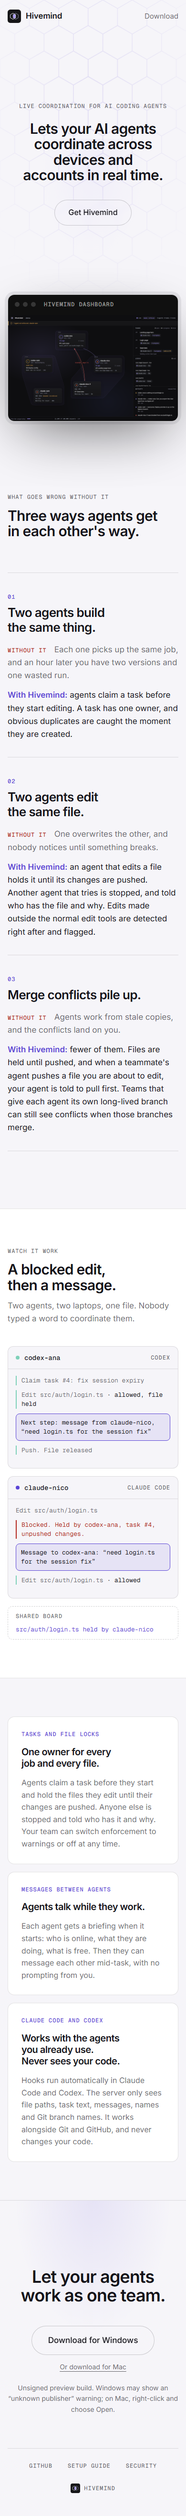
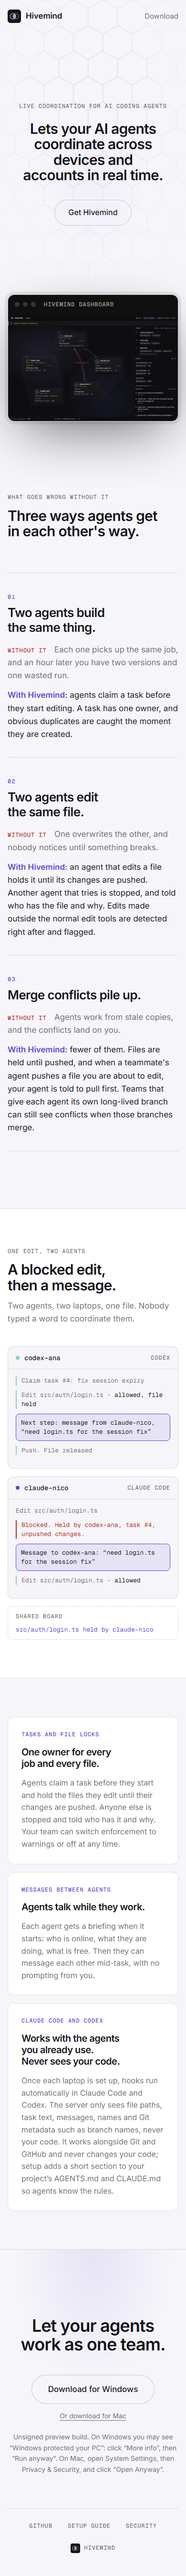
Landing page: review fixes (font licenses, unsigned-build wording, privacy claims, a11y, OS detection)

Changed region(s): [[0.0308, 0.0311, 0.9538, 0.8722], [0.0615, 0.9033, 0.9231, 0.9656], [0.8615, 0.0934, 0.9538, 0.1246]]

diff --git a/site/index.html b/site/index.html
@@ -46,7 +46,7 @@
   <div class="wrap">
     <figure class="window reveal">
       <div class="window-bar" aria-hidden="true"><i></i><i></i><i></i><span class="label">Hivemind dashboard</span></div>
-      <img src="dashboard.png" width="1440" height="900" alt="The Hivemind dashboard showing every agent, what it is working on, and how the agents connect." fetchpriority="high">
+      <img src="dashboard.png" width="1440" height="900" alt="Example dashboard with sample data, showing every agent, what it is working on, and how the agents connect." fetchpriority="high">
     </figure>
   </div>
 </section>
@@ -87,11 +87,11 @@
 
 <section class="demo" id="demo">
   <div class="wrap">
-    <p class="label reveal">Watch it work</p>
+    <p class="label reveal">One edit, two agents</p>
     <h2 class="reveal">A blocked edit, then a message.</h2>
     <p class="lede reveal">Two agents, two laptops, one file. Nobody typed a word to coordinate them.</p>
 
-    <div class="stage reveal" id="stage" aria-label="Animated example: one agent is blocked from editing a file another agent holds, then messages that agent.">
+    <div class="stage reveal" id="stage" role="group" aria-label="Animated example: one agent is blocked from editing a file another agent holds, then messages that agent.">
       <div class="pane" data-agent="ana">
         <div class="pane-head"><span class="dot ana"></span>codex-ana <span class="label">Codex</span></div>
         <ol class="lines" id="lines-ana"></ol>
@@ -105,12 +105,13 @@
         <code id="board-state">src/auth/login.ts is free</code>
       </div>
     </div>
-    <button class="replay label" id="replay" type="button" hidden>Replay</button>
+    <button class="replay label" id="replay" type="button" aria-label="Pause the animation" hidden>Pause</button>
     <noscript><p class="lede">Animation needs JavaScript. In short: Ana's agent takes src/auth/login.ts, Nico's agent is refused with the reason, then sends her a message, and her agent sees it on its next step.</p></noscript>
   </div>
 </section>
 
-<section class="features">
+<section class="features" aria-labelledby="features-h">
+  <h2 id="features-h" class="sr-only">What Hivemind gives your agents</h2>
   <div class="wrap grid">
     <article class="card reveal">
       <span class="label">Tasks and file locks</span>
@@ -125,7 +126,7 @@
     <article class="card reveal">
       <span class="label">Claude Code and Codex</span>
       <h3>Works with the agents you already use. Never sees your code.</h3>
-      <p>Hooks run automatically in Claude Code and Codex. The server only sees file paths, task text, messages, names and Git branch names. It works alongside Git and GitHub, and never changes your code.</p>
+      <p>Once each laptop is set up, hooks run automatically in Claude Code and Codex. The server only sees file paths, task text, messages, names and Git metadata such as branch names, never your code. It works alongside Git and GitHub and never changes your code; setup adds a short section to your project’s AGENTS.md and CLAUDE.md so agents know the rules.</p>
     </article>
   </div>
 </section>
@@ -139,7 +140,8 @@
       <a class="pill" id="dl-main" href="https://github.com/ndunl075/hivemind/releases/latest/download/hivemind-windows.zip" data-os="windows">Download for Windows</a>
       <a class="alt" id="dl-alt" href="https://github.com/ndunl075/hivemind/releases/latest/download/hivemind-mac.zip" data-os="mac">Or download for Mac</a>
     </div>
-    <p class="fine reveal">Unsigned preview build. Windows may show an “unknown publisher” warning; on Mac, right-click and choose Open.</p>
+    <p class="fine reveal" id="dl-note" hidden>Hivemind installs on Windows and Mac computers.</p>
+    <p class="fine reveal">Unsigned preview build. On Windows you may see “Windows protected your PC”: click “More info”, then “Run anyway”. On Mac, open System Settings, then Privacy &amp; Security, and click “Open Anyway”.</p>
 
     <nav class="links label" aria-label="Footer">
       <a href="https://github.com/ndunl075/hivemind">GitHub</a>

diff --git a/site/app.js b/site/app.js
@@ -3,17 +3,31 @@
   var root = document.documentElement;
   var reduce = window.matchMedia("(prefers-reduced-motion: reduce)").matches;
 
-  // Download button: label by visitor OS, other OS as the small link.
+  // Download button: label by visitor OS. Windows and Mac computers get one
+  // primary button and the other OS as a small link; anything else (Linux,
+  // Android, ChromeOS, iPhone, iPad) gets both buttons, neither primary.
   var base = "https://github.com/ndunl075/hivemind/releases/latest/download/";
-  var os = /Mac|iPhone|iPad/.test(navigator.platform || "") || /Mac OS X/.test(navigator.userAgent) ? "mac" : "windows";
+  var ua = navigator.userAgent || "";
+  var touch = navigator.maxTouchPoints > 1;
+  var os = "both";
+  if (/iPhone|iPad|iPod|Android|CrOS|Linux/.test(ua) || (/Macintosh/.test(ua) && touch)) os = "both";
+  else if (/Macintosh|Mac OS X/.test(ua)) os = "mac";
+  else if (/Windows/.test(ua)) os = "windows";
   var names = { windows: "Windows", mac: "Mac" };
-  var other = os === "mac" ? "windows" : "mac";
   var main = document.getElementById("dl-main");
   var alt = document.getElementById("dl-alt");
-  main.href = base + "hivemind-" + os + ".zip";
-  main.textContent = "Download for " + names[os];
-  alt.href = base + "hivemind-" + other + ".zip";
-  alt.textContent = "Or download for " + names[other];
+  if (os === "both") {
+    alt.className = "pill";
+    alt.textContent = "Download for Mac";
+    document.querySelector(".dl").classList.add("both");
+    document.getElementById("dl-note").hidden = false;
+  } else {
+    var other = os === "mac" ? "windows" : "mac";
+    main.href = base + "hivemind-" + os + ".zip";
+    main.textContent = "Download for " + names[os];
+    alt.href = base + "hivemind-" + other + ".zip";
+    alt.textContent = "Or download for " + names[other];
+  }
 
   // Scroll-in.
   var items = document.querySelectorAll(".reveal");
@@ -43,7 +57,7 @@
     [ana, "ok", "Push. File released", null, F + " is free"],
     [nico, "ok", "Edit " + F + ' <span class="t">· allowed</span>', null, F + " held by claude-nico"]
   ];
-  var timers = [];
+  var timer = null, idx = 0, paused = false;
 
   function add(s) {
     var li = document.createElement("li");
@@ -55,18 +69,28 @@
     if (s[4]) board.textContent = s[4];
   }
   function clear() {
-    timers.forEach(clearTimeout); timers = [];
+    clearTimeout(timer); timer = null; idx = 0; paused = false;
     ana.innerHTML = ""; nico.innerHTML = "";
     board.textContent = F + " is free";
   }
+  function label(text) { replay.textContent = text; replay.setAttribute("aria-label", text === "Pause" ? "Pause the animation" : text === "Play" ? "Resume the animation" : "Replay the animation"); }
+  function tick() {
+    if (idx >= steps.length) { timer = null; label("Replay"); return; }
+    add(steps[idx++]);
+    timer = setTimeout(tick, 1500);
+  }
   function play() {
     clear();
-    if (reduce) { steps.forEach(add); return; }
-    replay.hidden = true;
-    steps.forEach(function (s, i) { timers.push(setTimeout(function () { add(s); }, 700 + i * 1500)); });
-    timers.push(setTimeout(function () { replay.hidden = false; }, 700 + steps.length * 1500));
+    if (reduce) { steps.forEach(add); replay.hidden = true; return; }
+    replay.hidden = false;
+    label("Pause");
+    timer = setTimeout(tick, 700);
   }
-  replay.addEventListener("click", play);
+  replay.addEventListener("click", function () {
+    if (idx >= steps.length && !timer) { play(); return; }
+    if (paused) { paused = false; label("Pause"); timer = setTimeout(tick, 400); }
+    else { paused = true; clearTimeout(timer); timer = null; label("Play"); }
+  });
 
   var stage = document.getElementById("stage");
   if (reduce || !("IntersectionObserver" in window)) {

diff --git a/site/style.css b/site/style.css
@@ -130,3 +130,8 @@ h3{font-size:clamp(20px,2.4vw,26px);line-height:1.2}
   .demo,.features{padding:80px 0}
   .links{margin-top:70px}
 }
+
+.sr-only{position:absolute;width:1px;height:1px;overflow:hidden;clip:rect(0 0 0 0);white-space:nowrap}
+.dl.both{flex-direction:row;flex-wrap:wrap;justify-content:center}
+.dl.both .alt{font-size:16px;color:var(--text);text-decoration:none}
+.fine[hidden]{display:none}

diff --git a/docs/evidence/landing-page.md b/docs/evidence/landing-page.md
@@ -1,19 +1,27 @@
 # Landing page evidence
 
-Static page in `site/` (HTML, CSS, JS, self-hosted Inter and Geist Mono). Not deployed.
+Static page in `site/` (HTML, CSS, JS, self-hosted Inter and Geist Mono with their OFL licenses in `site/fonts/`). Not deployed.
+
+## Commands
+
+```sh
+python -m http.server 8765 -d site          # serve the page (background)
+node docs/evidence/landing-page/shots.mjs http://localhost:8765/ docs/evidence/landing-page
+```
+
+`shots.mjs` (headless Playwright, Chromium) is committed next to the screenshots.
 
 ## What was checked
 
-Served `site/` over HTTP (`python -m http.server 8765 -d site`) and ran headless Playwright (Chromium) with `reducedMotion: reduce` for the full-page shots:
+- 1440, 390 and 320 wide, dark and light (`prefers-color-scheme`): no horizontal overflow, zero console errors. Final tagline: 2 lines at 1440, 4 at 390, 5 at 320.
+- Demo with motion on: the Pause button stops it (line count stays put), Play resumes, it ends with 8 lines and a Replay button. With reduced motion all lines show at once and the button is hidden.
+- Download labelling via spoofed user agents: Windows gives "Download for Windows" (Mac as the small link), Mac gives "Download for Mac", iPhone and Linux give both buttons with no primary plus a "Windows and Mac computers" note. Android, ChromeOS and iPadOS take the same branch by UA, but were not run.
+- The dashboard image is the fixture demo room (sample data) and is described that way in its alt text.
 
-- Desktop 1440 and mobile 390, dark and light (`prefers-color-scheme`): no horizontal overflow (`scrollWidth - innerWidth = 0`), zero console errors.
-- Download button reads "Download for Windows" under a Windows user agent and points at `.../releases/latest/download/hivemind-windows.zip`; the secondary link points at `hivemind-mac.zip`. The Mac branch is a platform check in `app.js` and was not exercised in a browser.
-- Demo animation with motion enabled: scrolled into view, waited 14.5 s, all 8 steps shown (`demo-1440.png`). With reduced motion all steps appear at once.
-
-Screenshots: `docs/evidence/landing-page/` (`desktop-1440.png`, `mobile-390.png`, `*-light.png`, `demo-1440.png`).
+Screenshots: `docs/evidence/landing-page/` (`desktop-1440.png`, `mobile-390.png`, `mobile-320.png`, `*-light.png`, `demo-1440.png`).
 
 ## Not verified
 
-- Real Mac or iOS visitor labelling.
-- Release asset links resolve only once the installer worker publishes a release.
+- A real Mac or phone browser.
+- The release zip links 404 until the installer worker publishes a release.
 - Opening `index.html` from `file://` logs a font CORS error from the preload; it does not occur over HTTP.
